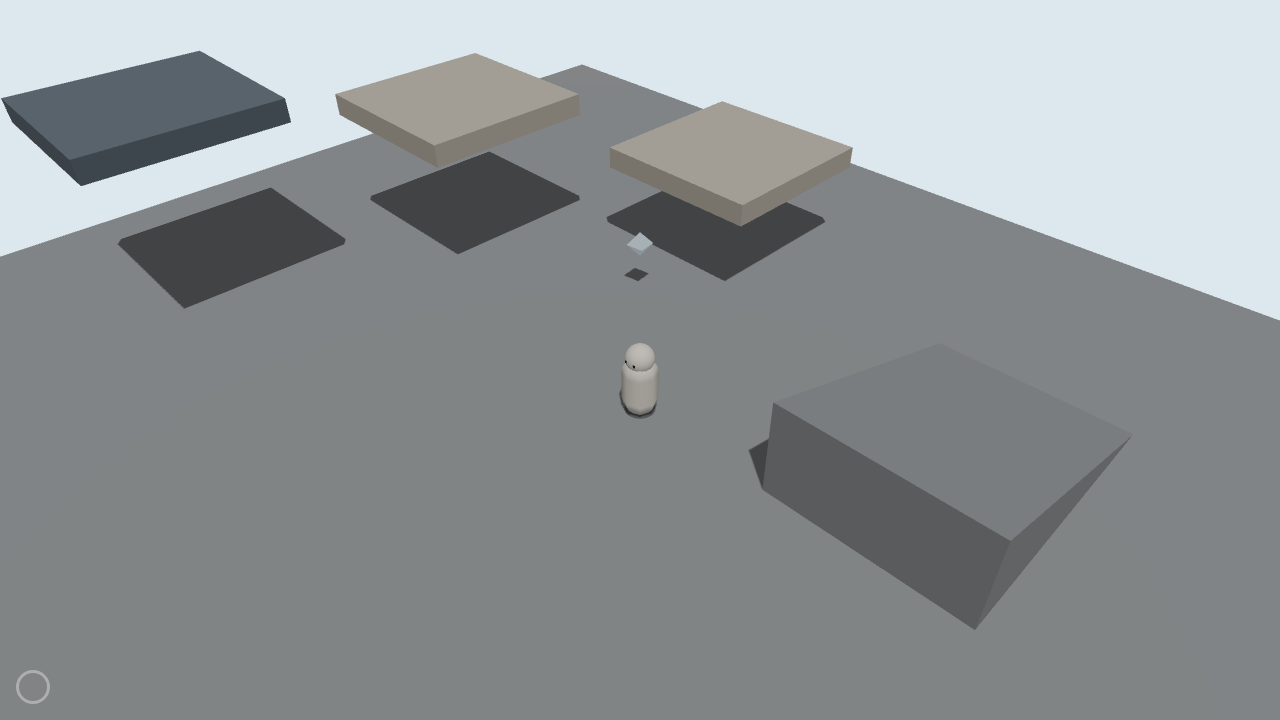
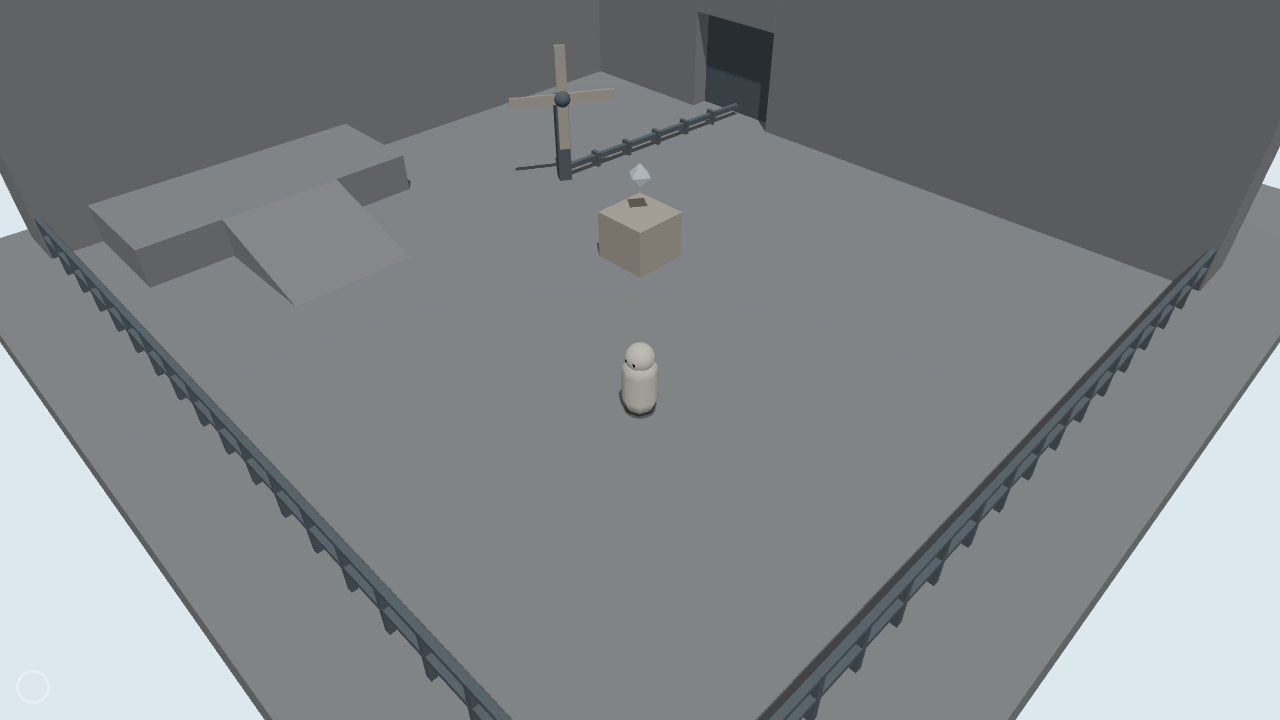
WO-004 handback: STATUS, smoke evidence on build 102df8c
Docs and evidence only. STATUS.md: per-stage commits and gates, the
before/after reach table, evidence index, VP manual test steps
(including the preview upload), and what the tests could not prove.

Claude-Session: https://claude.ai/code/session_01LtBCf5kRh4LVXaH5rQgWv8

diff --git a/STATUS.md b/STATUS.md
@@ -1,60 +1,85 @@
-# STATUS — 2026-09-27
+# STATUS — 2026-09-28 · WO-004 handback
 
-Current milestone: **M4a — Abilities + props, sandbox only. BUILT; every DoD item met by test or harness. Awaiting the VP's play.**
-Branch: `claude/great-albattani-oqw1u0` | author Wissam on every commit, `Co-authored-by: Claude` trailer | pushed
-WO-003 commits this session: `9703f86` hard rule 5 · `1d40070` force-absorption finding · `fa6ffbd` M4a-A foundations · `8013b9e` M4a-B Gust/Glide/Windmill/sandbox · `04d2ff9` M4a-C the other eight props · this commit M4a-D (F5, goldens, SPEC, docs)
+**WO-004 is complete: Stages A–D. Stopped before Beat 3, as ordered.** M4b unit 1 (Beats 0–2, the Still Yard) is ready for the VP's play.
 
-Gates (run this session, on the final tree): typecheck ✅ | test ✅ **139 passing** | lint ✅ | build ✅ | shot:check ✅ **29/29 goldens at 0 px** (17 existing untouched + 12 new sandbox goldens, regenerated from scratch before comparing)
+Branch: `claude/great-albattani-oqw1u0`, pushed. `origin/dev` was merged in first (`b45e4cf`); it added only `Claude outputs/WO-004.md`.
+Git identity: **Wissam Mouhaidli <wmhaidly@gmail.com>**, from the latest VP commit (`b37e722` on dev). The merge commit `b45e4cf` was made a moment before the switch and carries the older name "Wissam" (same email). It was not rewritten.
 
-## Ledger
-
-| M | State | Hash |
+| Stage | Commit | Gates at the boundary |
 |---|---|---|
-| M0 – M3 | done | `ec77dfd` … `7b6ff85` |
-| WO-003 housekeeping | done | `cecc1dd` `a18854b` `9703f86` |
-| M4a Abilities + props (sandbox) | **built — needs the VP's play** | `fa6ffbd` `8013b9e` `04d2ff9` + D |
-| M4b Level 1 layout | not started — `level01.json` untouched | — |
+| merge origin/dev | `b45e4cf` | — |
+| A — M4a close-out | `4a8dc19` | typecheck · 141 tests · lint · build · shot:check 29/29 |
+| B — decision record | `9f7f6fe` | same, all green |
+| C — preview pipeline | `2a57d0c` | same + `preview:smoke` passed |
+| D — the Still Yard | `102df8c` | typecheck · **155 tests** · lint · build · **shot:check 35/35 at 0 px** · preview:smoke passed on build `102df8c` |
+| handback (this file, evidence) | see `git log` | docs only |
 
-## M4a Definition of Done — evidence
+Evidence frames and logs are in **`Claude outputs/WO-004-evidence/`**.
 
-| DoD item | Evidence |
-|---|---|
-| Gust + Glide work, lifecycle/cooldown tested | `GustAbility.test.ts` (windup, fires once, cooldown, aim, recoil, hit-stop only on hit), `GlideAbility.test.ts` (new-press rule, minAirTime, buffered-jump precedence, overrides, through the real Player), `AbilityRunner.test.ts` |
-| All nine §6.4 props react to events/signals/overlap in `sandbox.json` | `props.test.ts` — one block per prop; harness: windmill → gate, debris → updraft → glide → ledge (checkpoint + shard), zone drift |
-| Zero element names, zero tags in `src/world/props/**` | lint rule (proven to fire at WO-003) + grep: none |
-| Hit-stop uses the pickup-dilation mechanism, MIN, tested | `core/TimeScale.ts` is the one mechanism; `TimeScale.test.ts` MIN test |
-| Tunnelling arbiter re-run at computed worst case | worst case derived from tuning in the test: **≈35.6 m/s** (light mass, moveSpeed + zone terminal + full recoil, at max fall) → lands on the 0.1 m platform; raw diagonal sweep at the 55 m/s cap holds |
-| `maxSpeedSafety` exists, in F1, never engages in designed play | 55 m/s; F1 line + red warning; tested (run/jump/max-fall: 0 hits); all three harness scripts end with `safetyCapHits: 0` |
-| F3 gizmos, F5 checkpoint teleport | eyeballed via `npm run shot -- --keys=F3` / `--keys=F5,F5` (lands on cp_2 at [7, 6, −11]) |
-| `level01` untouched | its 17 goldens are unchanged at 0 px |
+## Stage A — M4a close-out
+- **A1 Gust reach.** `coneDeg` → `coneHalfDeg` 45 (±45°, PROVISIONAL; the VP's menu is 30 / 37.5 / 45). Reach is now measured to each pushable's bounds, not a single centre point. The DM's diagnosis was verified; one number was off (the fan).
 
-## The WO-003 finding, resolved
+  | Straight-on reach to the prop's visible edge | before | after |
+  |---|---|---|
+  | windmill | 4.99 m | **5.50 m** |
+  | debris | 4.69 m | **5.50 m** |
+  | fan | 5.12 m (DM estimated ≈5.4) | **5.50 m** |
+  | spread | 0.43 m | **0.00 m** (a test holds it within ±0.1 m) |
 
-Horizontal steering used to absorb every external force (a full wind pulse moved a standing player 0.43 m). The controller now has an **external-velocity channel**: pushes ride on top of steering and fade by `player.externalDrag`. With no pushes the behaviour is identical: all M2 tests pass and all 17 old goldens match at 0 px. Same pulse, drag 2.5: **~7.7 m drift** for the light body, 4.6 m for base.
+  F3 now draws the gust wedge and flashes each pushable green (hit) or red (miss) → `A1c-F3-gust-wedge.png`.
+- **A2 Shard.** It is now a violet (#9B4FD0) tetrahedron: not the Core's shape, not an element hue. **Frame for the VP's veto: `A2-shard-violet-tetrahedron.png`.** The red `accent` palette entry is retired. Palette audit note: `metal` sits in Wind's grey-blue family and `pillar` in Earth's ochre family, both at very low saturation. Flagged under B7; not changed.
+- **A3.** The VP-approved sandbox values are marked in tuning.ts and DECISIONS. Ruling 1 (glide speed multiplier) and ruling 3 (safety cap clamps and counts) are accepted; ruling 4 (downward Gust) is deferred to Beat 5.
 
-## PROVISIONAL values — the VP picks (none of these have been played)
+## Stage B — decision record
+B1–B10 are recorded in SPEC.md (§1 colour language and anti-goals, §6.4 WindZone mass rule and playtest units, new §8.7 platform constraints, §10/§11/§12 release and preview), CLAUDE.md (hard rule 11: semantic actions only; anti-goals; DoD), and DECISIONS.md.
+- SPEC §11 said "ship publicly at M7", which contradicted B2, so it was rewritten.
+- Developer note on B8: at the fixed 60 Hz step the window is about 10.6 < F < 15.9, not 10.8 < F < 16.25, so the Beat 4 test must use the simulated terminal speed.
 
-| Key | Now | Menu / note |
-|---|---|---|
-| `player.externalDrag` | 2.5 | 1.5 brutal · **2.5 first** · 4.0 gentle (drift 10.5 / 7.7 / 5.4 m per pulse) |
-| `props.updraft.force` | 20 | 18 / **20** / 22 — must stay inside (16.56, 24) or the mass rule breaks (a test pins it) |
-| `props.windmill.spinPerForce` | 0.5 | one Gust → 9 rad/s → signal ~0.7 s later |
-| `props.gate.openTime` | 1.2 s | sink-open time |
-| `props.fan.reach/width/height/force` | 14 / 4 / 4 / 9.5 | the current's size and push |
-| `elements.hitStopScale` | 0 | SPEC "freeze"; a near-freeze (e.g. 0.05) is the softer option |
+## Stage C — private preview
+- `npm run preview:zip` → `preview/stillmote-<build>.zip`, with index.html at the zip root. It uses the system `zip`; no new dependency.
+- `npm run preview:smoke` builds that zip, serves it from an itch-like subpath, and boots it headless (inside a 1280×720 iframe, and directly with `?debug=1`). It fails on any console error. **Result on `102df8c`: all 7 checks passed** → `C2-smoke-result.txt`, `C2-smoke-embed.png`.
+- `?debug=1` opens F1 in production, and **F1's first line is the build id** (`vite.config.ts` → `.mjs`, so it can call git without `@types/node`).
+- README has a new "Preview build" section.
 
-## Rulings still open (defaults in place, all logged in DECISIONS.md)
+## Stage D — M4b unit 1, the Still Yard
+- **Spawn frame** shows the dead windmill, its shaft running to the closed gate in the cliff, and the Core on its pillar → `D1-spawn-frame.png` (and golden `level01_0`). A test projects each of them from spawn and checks they are in frame and unoccluded.
+- **No void, no sequence break**, both tested:
+  - The highest reachable feet height is 5.0 m (the windmill tower top plus a Wind jump). Every boundary is ≥ 5.5 m (cliffs 7, rails 6).
+  - A grid flood fill with a headroom check shows no void anywhere, and **the gate is the only way to the Goal**.
+  - The gate is capped by a lintel so nobody can stand on it.
+- **Core pillar** is 1.2 m high. A base body lands on it with one normal jump (tested; this is also the `pickup` script).
+- **Windmill** is 4.7 m from the pillar. Its bounds are within Gust reach from open ground and from the pillar top.
+- **Camera-side boundary (my call):** a waist-high rail whose collision rises to 6 m, i.e. an invisible barrier above the rail. Two alternatives were rejected:
+  - 6 m see-through bars caged the frame → `D1-rejected-tall-railing.png`.
+  - A parapet over a lower terrace only moves the problem outward.
+  - Pressed against the rail he stays visible → `D1-camera-side-rail.png`.
+- **The camera never loses him on the critical path.** Raycast test at every step of `yard_chain`: at most the feet are hidden (6 steps dropping off the pillar's far side, 5 in the gateway). Frames: `D1-path-yard_chain_{81,130,175,220,248}.png`.
+- **Temporary Goal** sits in the gateway. Anything behind the 7 m far wall is hidden from this camera, so the Goal fires as he crosses the gate line.
+- **D2 shaft:** a windmill `shaftTo` field adds a visual shaft that turns with the rotor.
+- **D3 prompt:** an E / X keycap beside the HUD slot, derived from Input.ts's bindings and the last-used device, shown from pickup until the first Gust → **frame for the VP: `D3-action-prompt.png`**.
+- **D4:** the level01 scripts were recalibrated and `yard_chain` added. The 17 old level01 goldens were replaced by 23 new ones, all viewed.
 
-1. **`glide.horizontalDrag` 0.92**: read as glide speed = moveSpeed × 0.92. A per-step multiplier would depend on frame rate.
-2. **`gust.coneDeg` 45**: read as the FULL cone (±22.5°). With 8-way keyboard aim that is a knife-edge for off-axis targets; ±45° is the forgiving reading.
-3. **`maxSpeedSafety`**: it clamps AND counts (the DM said "detection only"). Count-only would let a mis-authored force tunnel through floors. It's a one-line change if wanted.
-4. **Gust downward aim** (Beat 5's hidden shard) is unbuilt. How the player aims down is an M4b control/feel call.
+## Manual test steps for the VP
+1. `npm ci && npm run dev` → `http://localhost:5173` (the Still Yard). Controls: WASD/arrows, Space jump (press again while falling and hold to glide), E Gust.
+2. **The yard, no instructions.** Does your eye go to the Core? Jump onto the pillar and take it. Does the E keycap appear? Gust the windmill (from the pillar top or the ground). Watch the shaft turn and the gate sink, walk through it, and the Goal fires in the doorway.
+3. Walk into both near rails and try to jump over them: you stay visible, but there is an invisible barrier above the rail. Is that acceptable?
+4. **Gust at ±45°:** try the windmill from off-angles. Does "inconsistent reach" feel gone? Press F3 to see the wedge and the hit/miss flashes.
+5. `?level=sandbox`: F5 twice lands you next to the violet Shard. Veto it or keep it.
+6. **Preview upload:** commit, `npm run preview:zip`, upload `preview/stillmote-<hash>.zip` as HTML5 on the itch.io page with visibility **Restricted**, 1280×720, fullscreen button, mobile-friendly, landscape (README → Preview build).
+7. **iPhone Safari fps (B6):** open the preview on the phone, add `?debug=1` to the raw game URL, and read fps. I cannot do this from here.
 
-## Open flags (unchanged)
+## What the tests could NOT prove (needs the VP)
+- Whether the yard's causal chain (windmill → shaft → gate) reads **without words**.
+- Whether the Core **pulls him in from spawn**. It is small and grey-blue on a grey world.
+- Whether **±45°** removes the "inconsistent reach" feel (the cone is still provisional).
+- Whether the invisible barrier above the rails feels fair.
+- The Shard's look, and the prompt's look.
+- Frame rate on an iPhone.
+- The phone raw-URL route (`?debug=1` on html.itch.zone) is documented but not verified against a live itch.io page.
 
-- `@vitest/mocker` moderate advisory (npm 10.9.7 arborist bug) — toolchain call is the VP's.
-- `@dimforge/rapier3d-compat` in node_modules via `@types/three`; importing it is a lint error.
-
-## Awaiting the VP's eyes
-
-Everything above is proven deterministic and correct against its rules. **Nothing proves any of it feels right.** In particular: whether a gust pulse *reads* as being blown off (drag), whether the updraft lift feels like riding air or like being winched (force 20, 9 m/s ceiling), whether glide's instant clamp to 3.2 m/s feels like a parachute snap, and whether a 45° cone is aimable.
+## Open flags
+- The temporary Goal sits in the gateway; it moves when Beat 3 is built.
+- The floor extends 2 m beyond the rails before the sky; beyond that is visible but unreachable void.
+- Out of scope, as ordered: Beat 3+, Gust/checkpoint VFX (M5), shard saving and the Level Complete card (M6), downward Gust, the WindZone mass-rule test (Beat 4).
+- Unchanged: the `@vitest/mocker` moderate advisory (npm arborist bug); `@dimforge/rapier3d-compat` in node_modules (importing it is a lint error).
+- The earlier playable artifact link still shows commit `832c303` (M4a). It can be republished with this build on request.
